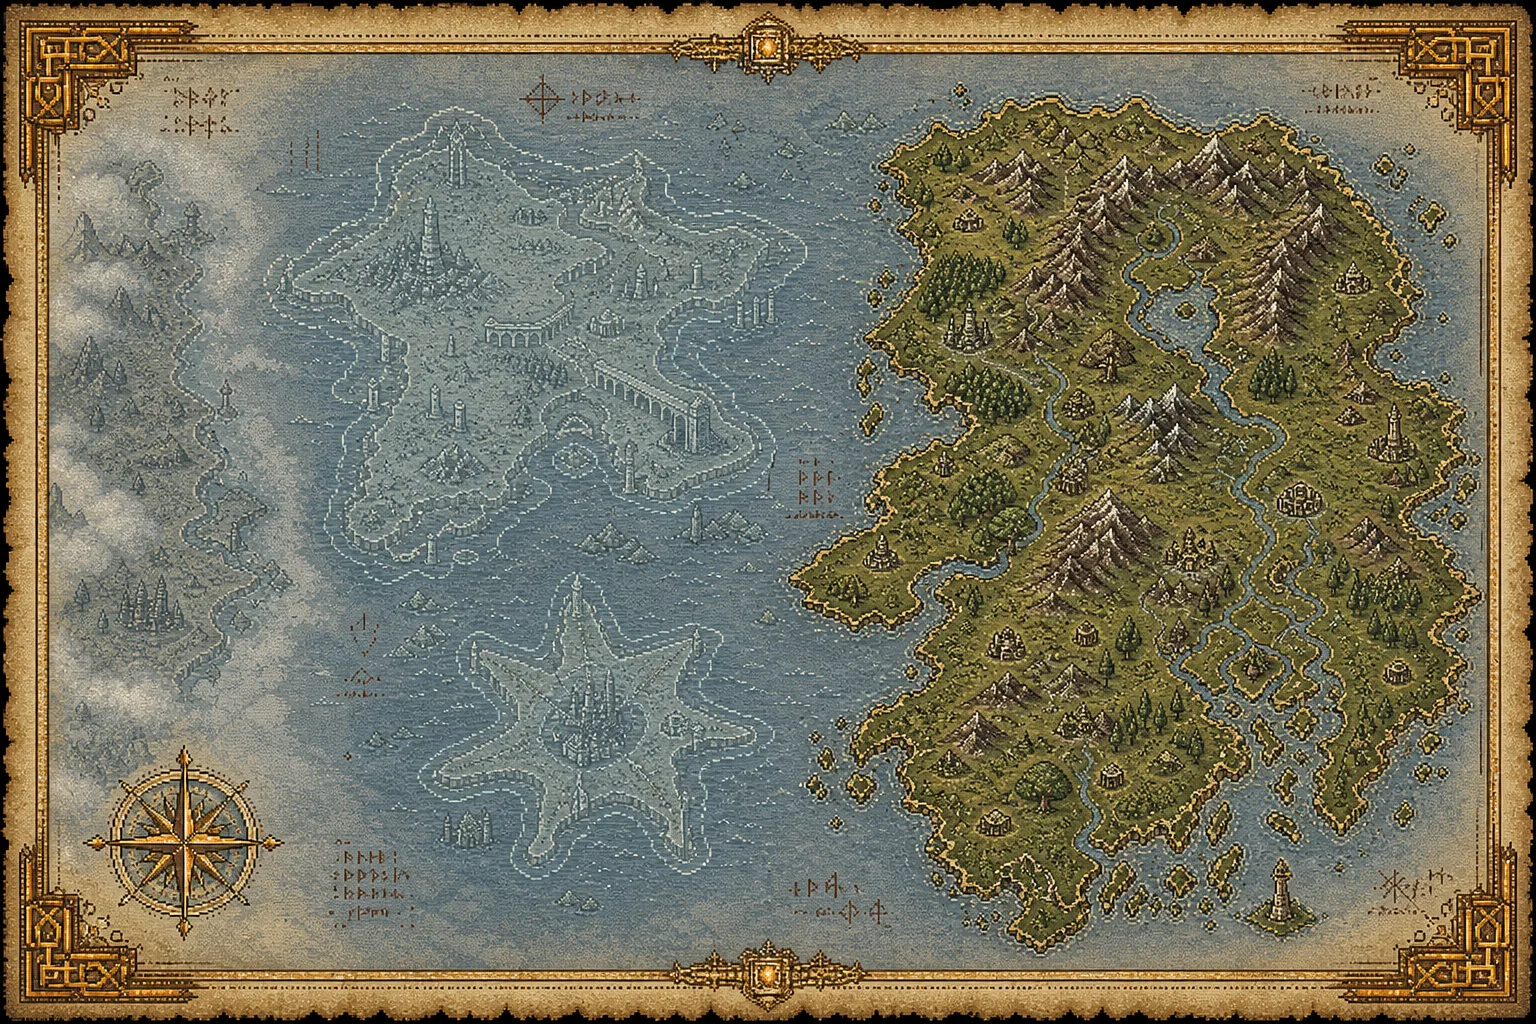
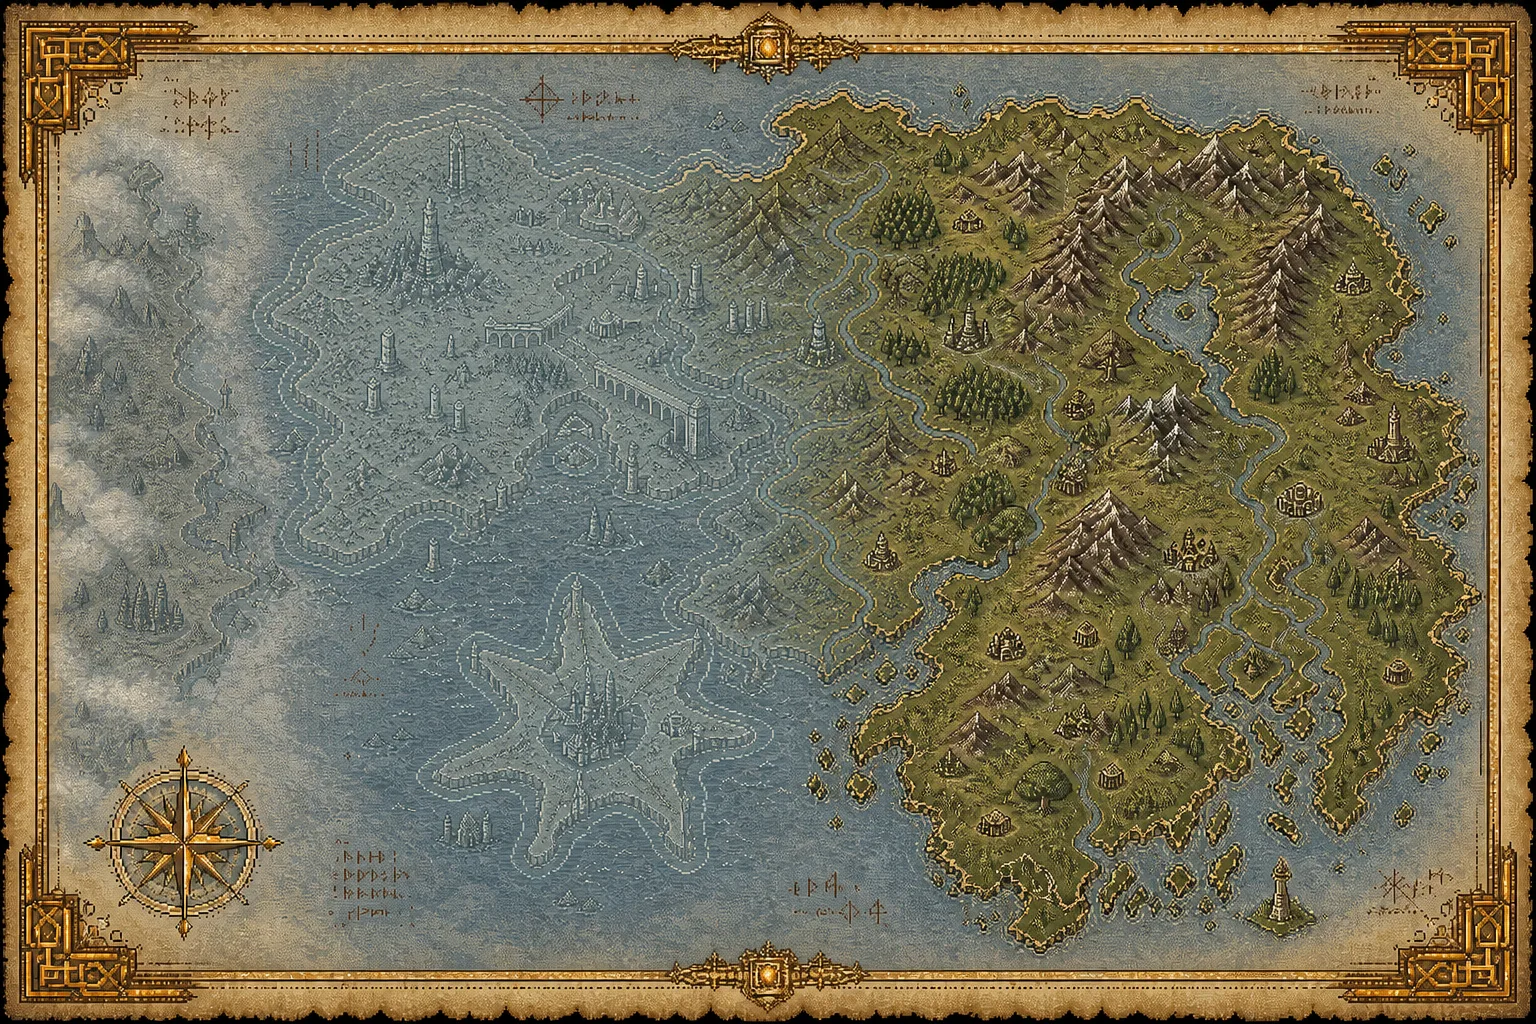
Update Lore stage 3 raster map (Beleriand joined to mainland)
- Re-optimize corrected map image (drowned Beleriand now contiguous with Middle-earth)
- Update alt/caption to match: sunk NW region attached to the surviving mainland

diff --git a/_posts/Lore/Middle-earth/2026-08-24-middle-earth-ages-chronology.md b/_posts/Lore/Middle-earth/2026-08-24-middle-earth-ages-chronology.md
@@ -216,9 +216,9 @@ flowchart TD
 <figure class="post-figure">
 <picture>
   <source type="image/webp" srcset="/assets/images/lore/middle-earth-ages-map-640.webp 640w, /assets/images/lore/middle-earth-ages-map-1024.webp 1024w, /assets/images/lore/middle-earth-ages-map-1536.webp 1536w" sizes="(max-width: 800px) 100vw, 760px">
-  <img src="/assets/images/lore/middle-earth-ages-map.jpg" alt="양피지에 그린 고지도. 오른쪽에는 산맥·숲·강을 품은 온전한 초록 대륙(중간계)이 있고, 왼쪽 은청색 바다 속에는 물에 잠겨 유령처럼 비치는 두 땅 — 북서쪽 대륙과 별 모양 섬 — 이 점선 해안으로 가라앉아 있다. 가장 왼쪽 끝에는 안개 속으로 멀어지는 희미한 해안(아만)이 보인다. 왼쪽 아래 나침반과 룬 글자, 장식 테두리. 레트로 픽셀아트." width="1536" height="1024" loading="lazy" decoding="async">
+  <img src="/assets/images/lore/middle-earth-ages-map.jpg" alt="양피지에 그린 고지도. 오른쪽에는 산맥·숲·강을 품은 온전한 초록 대륙(중간계 본토)이 있고, 그 서쪽 바다에는 본토와 이어진 채 물에 잠겨 유령처럼 비치는 옛 땅(벨레리안드)과 별 모양 섬(누메노르)이 점선 해안으로 가라앉아 있다. 가장 왼쪽 끝에는 안개 속으로 멀어지는 희미한 해안(아만)이 보인다. 왼쪽 아래 나침반과 룬 글자, 장식 테두리. 레트로 픽셀아트." width="1536" height="1024" loading="lazy" decoding="async">
 </picture>
-<figcaption>물에 잠긴 시대의 지도 — 오른쪽 <strong>온전한 중간계 본토</strong> 서쪽 바다 아래로, 침몰한 <strong>벨레리안드</strong>(본디 중간계 북서부, 청색산맥 서쪽)와 수몰한 <strong>누메노르</strong>(별 모양 섬)가 유령처럼 비친다. 맨 왼쪽 안개 너머로 멀어지는 것이 필멸자가 닿을 수 없게 된 <strong>아만</strong>이다. <em>(공식 지도를 옮긴 것이 아니라 콘셉트에 맞춰 새로 생성한 원본 삽화 — 도식적 표현이므로 실제 위치·형태와는 다르다)</em></figcaption>
+<figcaption>물에 잠긴 시대의 지도 — 오른쪽 <strong>온전한 중간계 본토</strong>에 이어진 채 서쪽 바다에 잠긴 <strong>벨레리안드</strong>(본디 중간계 북서부, 청색산맥 서쪽)와, 그 남쪽에 수몰한 <strong>누메노르</strong>(별 모양 섬)가 유령처럼 비친다. 맨 왼쪽 안개 너머로 멀어지는 것이 필멸자가 닿을 수 없게 된 <strong>아만</strong>이다. <em>(공식 지도를 옮긴 것이 아니라 콘셉트에 맞춰 새로 생성한 원본 삽화)</em></figcaption>
 </figure>
 
 아래 개념도는 그 변화를 시대별로 다시 도식화한 것입니다(상대적 위치와 사라진 땅만을 나만의 표현으로 새로 그린 것입니다).
